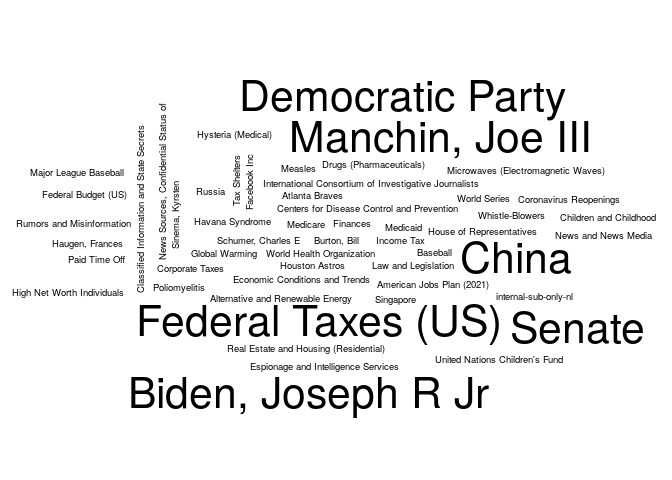
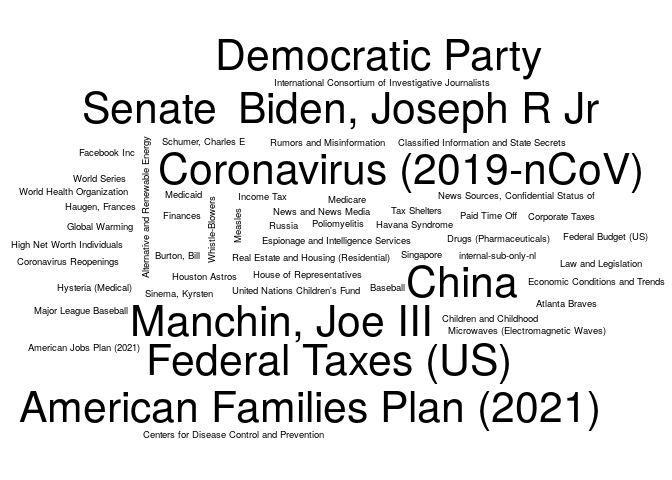
Updating the NYT report

Changed region(s): [[0.0, 0.0625, 1.0, 0.9375]]

diff --git a/03-nytimes/README.md b/03-nytimes/README.md
@@ -1,0 +1,107 @@
+
+# NYTimes health news
+
+The following is an example of how to use the [NYTimes
+API](https://developer.nytimes.com/) to get a list of articles related
+to a particular term. Here we are searching articles that include the
+term `"health"`, and that were published up to seven days ago since
+2021-10-29.
+
+``` r
+# Preparing a function to use the GET method with the NYTimes API
+library(httr)
+f <- function(offset = 0) {
+  GET(
+    url = "https://api.nytimes.com/",
+    path = "svc/search/v2/articlesearch.json",
+    query = list(
+      fq           = "health",
+      facet        = "true",
+      "begin_date" = gsub("-", "", Sys.Date() - 7),
+      "api-key"    = Sys.getenv("NYT_APIKEY"),
+      offset       = offset
+      )
+    )
+}
+
+# Retrieving 40 articles
+keywords <- NULL
+maxtries <- 5
+niters   <- 10
+i        <- 1
+ntries   <- 1
+while ((ntries < maxtries) && (i <= niters)) {
+  
+  res <- tryCatch(f(10 * (i-1)), error = function(e) e)
+  
+  # If it returns error
+  if (inherits(res, "error")) {
+    ntries <- ntries + 1
+    next
+  }
+  
+  # If the return code is not 200
+  if (httr::status_code(res) != 200) {
+    ntries <- ntries + 1
+    next
+  }
+  
+  # Parsing the data
+  ans <- httr::content(res)
+  keywords <- c(
+    keywords,
+    sapply(ans$response$docs, function(x) sapply(x$keywords, "[[", "value"))
+    )
+  
+  # Incrementing and restarting
+  i      <- i + 1
+  ntries <- 1L
+  
+}
+```
+
+Now that we got the data, we can proceed to do some visualization
+
+``` r
+library(ggplot2)
+library(ggwordcloud)
+
+keywords <- as.data.frame(table(unlist(keywords)))
+
+# Just to make sure that we were able to download info!
+stopifnot(nrow(keywords) > 1)
+ggwordcloud(keywords[, 1], keywords[, 2])
+```
+
+![](README_files/figure-gfm/preparing-data-1.png)<!-- -->
+
+Finally, a table with the top 20 articles
+
+``` r
+tab <- keywords[order(-keywords[,2]),][1:20,]
+colnames(tab) <- c("Keyword", "# Articles")
+knitr::kable(tab, row.names = FALSE)
+```
+
+| Keyword                                    | \# Articles |
+|:-------------------------------------------|------------:|
+| Vaccination and Immunization               |          30 |
+| American Families Plan (2021)              |          20 |
+| Biden, Joseph R Jr                         |          20 |
+| China                                      |          20 |
+| Coronavirus (2019-nCoV)                    |          20 |
+| Democratic Party                           |          20 |
+| Federal Taxes (US)                         |          20 |
+| Manchin, Joe III                           |          20 |
+| Senate                                     |          20 |
+| United States Politics and Government      |          20 |
+| Alternative and Renewable Energy           |          10 |
+| American Jobs Plan (2021)                  |          10 |
+| Atlanta Braves                             |          10 |
+| Baseball                                   |          10 |
+| Burton, Bill                               |          10 |
+| Centers for Disease Control and Prevention |          10 |
+| Children and Childhood                     |          10 |
+| Classified Information and State Secrets   |          10 |
+| Coronavirus Reopenings                     |          10 |
+| Corporate Taxes                            |          10 |
